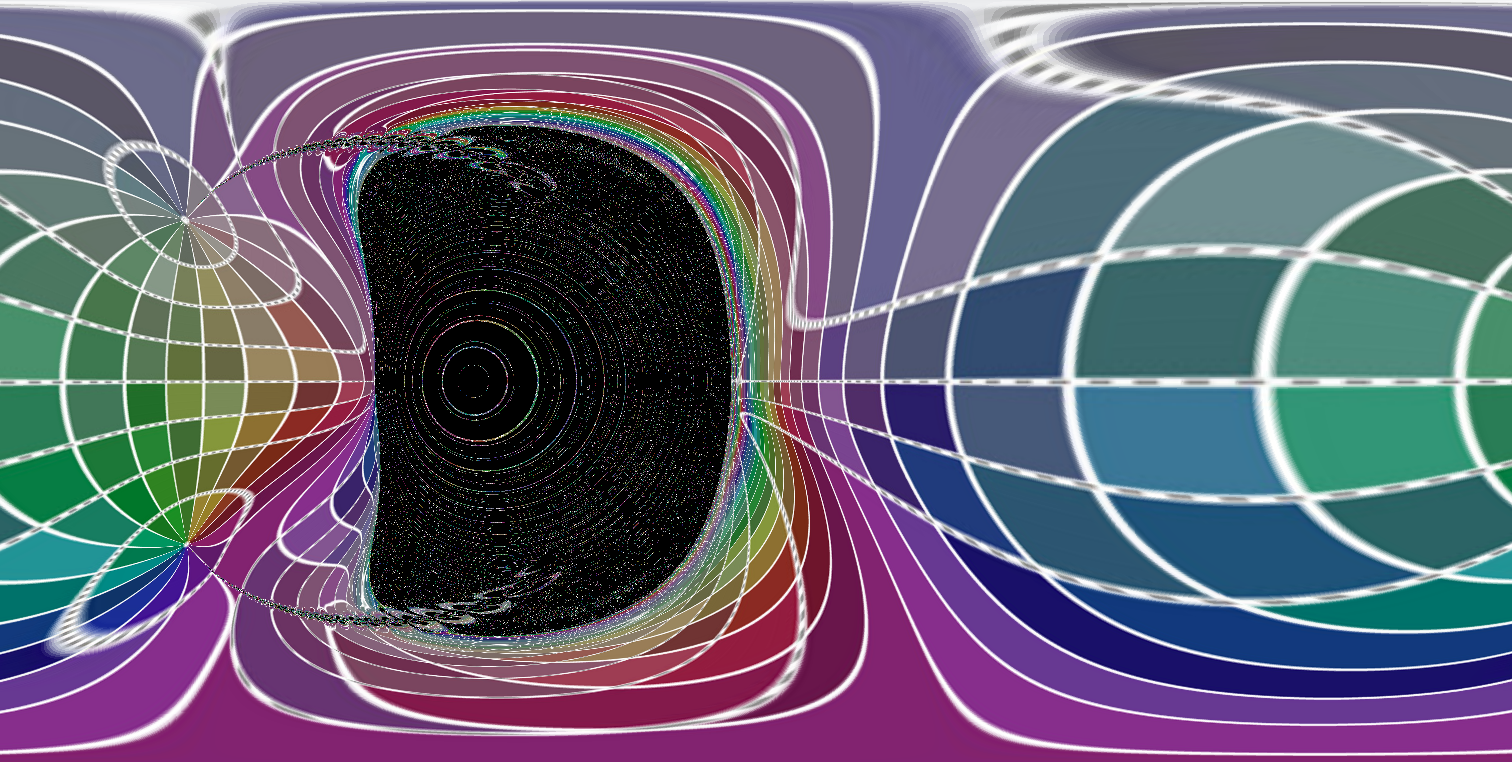
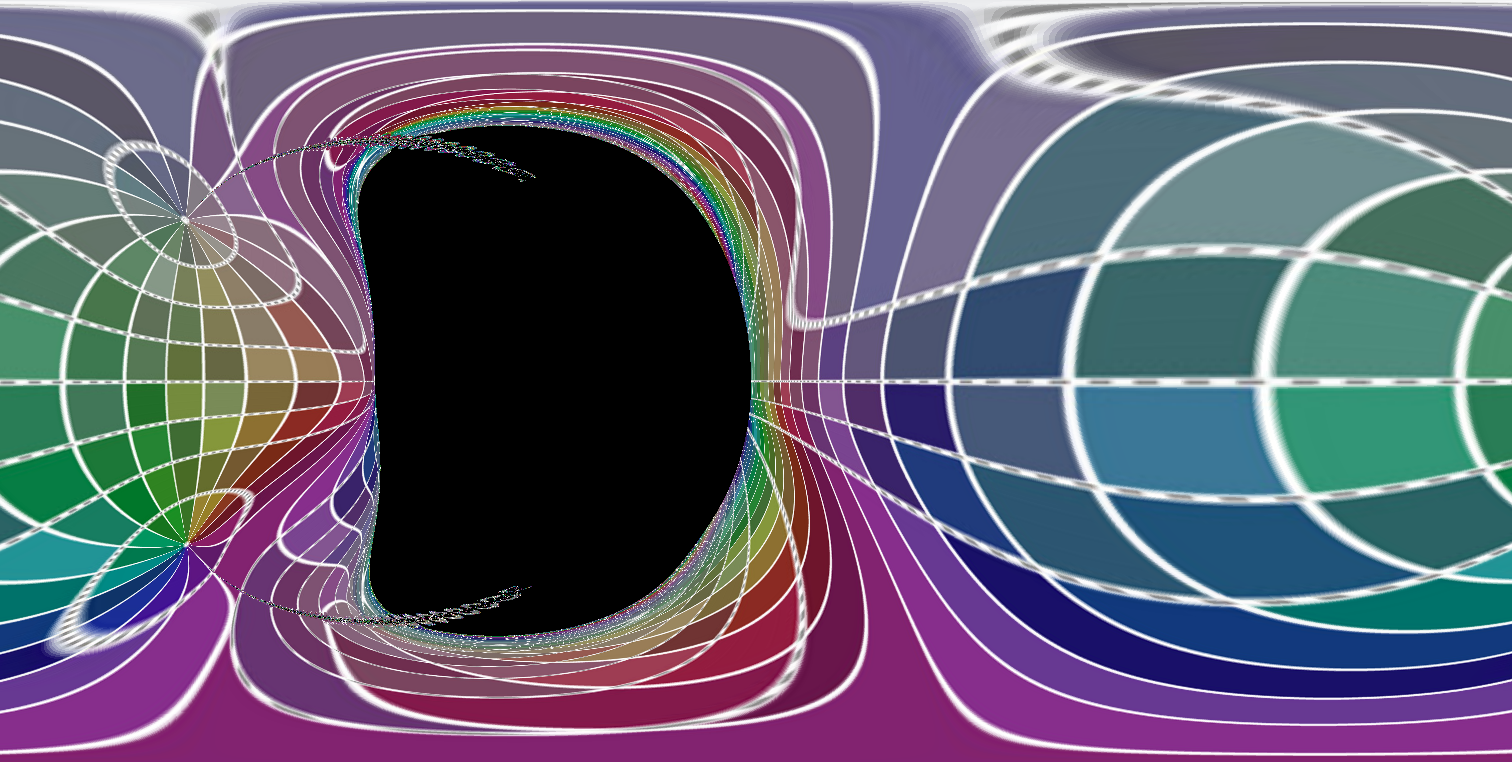
rendered at 5000 iters

diff --git a/src/tracer.py b/src/tracer.py
@@ -37,7 +37,7 @@ CHUNKSIZE = 9000
 
 default_options = {
     "resolution": "1512,762",
-    "iterations": "2500", # Increase this for good results
+    "iterations": "5000", # Increase this for good results
     "camera_position": "2.6,1.570796,0.",
     "field_of_view": 1.5,
     "sRGB_in": "0",
@@ -260,7 +260,7 @@ def rk4step(ode_fcn, t_0, delta_t, y_0, q):
     return y_0 + (dy_0 + 2 * dy_1 + 2 * dy_2 + dy_3) * delta_t / 6
 
 
-def rk4_final(ode_fcn, t_span, y_0, q):
+def rk4_final(ode_fcn, t_span, y_0, q, horizon_radius):
     """ N_out is the length of the `t_span` parameter.
         N is the length of the `y_0` parameter.
         Only returns the final solution to save memory.
@@ -280,7 +280,10 @@ def rk4_final(ode_fcn, t_span, y_0, q):
     # This loop structure accommodates negative time steps
     prev_time = t_span[0]
     solution = y_0.copy()
+    mask = np.zeros(solution.shape[0])
+
     for time in t_span[1:]:
+        mask = np.logical_or(mask, solution[..., 0] < horizon_radius)
         solution = rk4step(
             ode_fcn,
             prev_time,
@@ -290,7 +293,7 @@ def rk4_final(ode_fcn, t_span, y_0, q):
         )
         prev_time = time
 
-    return solution
+    return solution, mask
 
 
 def ray_equation(rtp_vel, time, q):
@@ -465,7 +468,7 @@ def raytrace_schedule(i, schedule, total_shared, q):
         times = np.linspace(0, -350, NITER)
 
         ode_fcn = ray_equation
-        solutions = rk4_final(ode_fcn, times, rtp_vel, carter_constant)
+        solutions, hit_horizon = rk4_final(ode_fcn, times, rtp_vel, carter_constant, horizon_radius)
 
         show_progress("generating sky layer...", i, q)
 
@@ -481,7 +484,7 @@ def raytrace_schedule(i, schedule, total_shared, q):
 
         show_progress("generating debug layers...", i, q)
 
-        hit_horizon = solutions[..., 0] < horizon_radius
+        # hit_horizon = solutions[..., 0] < horizon_radius
         # col_bg[test] = np.ones_like(col_bg)[test]
         col_bg[hit_horizon] = np.zeros_like(col_bg)[hit_horizon]
 
